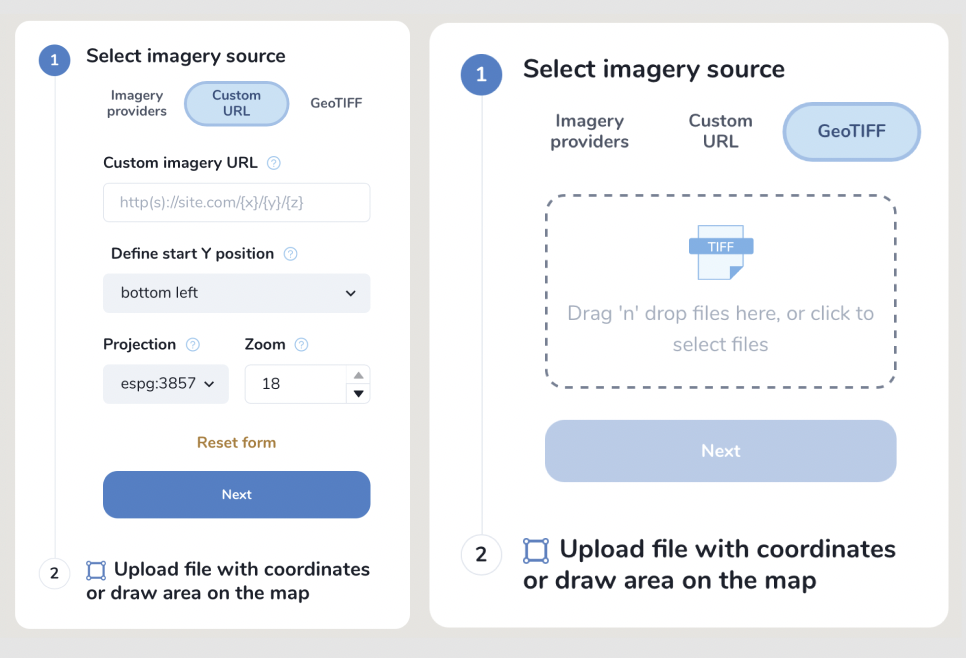
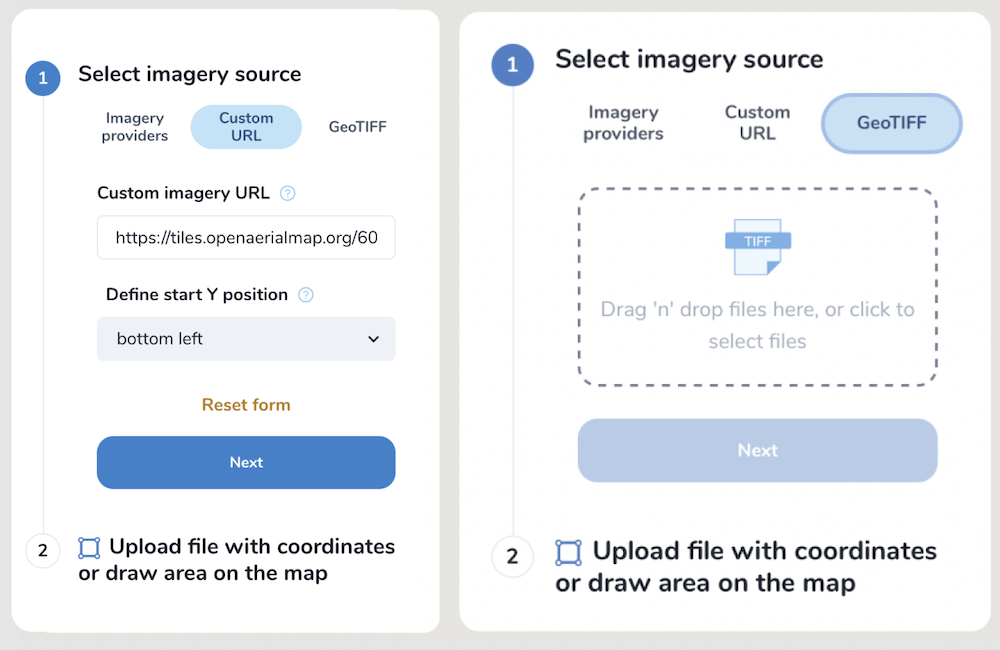
update structure, update UI screen for XYZ layers

diff --git a/source/userguides/howto.rst b/source/userguides/howto.rst
@@ -1,5 +1,50 @@
+.. _howto:
+
+Userguides - How To
+===================
+
+How to change the data type of your image to Uint8 bit in QGIS
+--------------------------------------------------------------
+
+1. Check the data type of your image. 
+Right-click on the imagery layer - i - Information from provider. The Data type must be Byte. Follow the next steps if the Data type is Int16, Float 32 etc.
+
+    
+    .. figure:: _static/information.png
+
+
+  
+
+2. Right click on your image Layer Properties -  Symbology tab, then customize the display of your image. Select desired channels for Band rendering, adjust brightness and contrast. 
+      
+    
+    .. figure:: _static/symbology.png
+
+
+
+3. Right-click on the layer’s name, go to the  Export in the context menu, Save as…
+
+ 
+    .. figure:: _static/export.png
+    
+
+
+4. Check Output mode as Rendered Image
+
+
+    .. figure:: _static/save_raster.png
+    
+
+
+5. Save your image  - navigate to the desired folder, input the file name then click OK
+
+
+
+6. Use the new image layer as Imagery source when using the Mapflow plugin for QGIS
+
+
 How to process your own UAV imagery with Mapflow
-================================================
+------------------------------------------------
 
 Unmanned aerial vehicles – UAVs or, more commonly, drones – have become a deeply integrated part of the geomatic industry over the last ten years. This is owing to their increasing usability, falling hardware costs, and easing government regulations. Yet, as more data is available with UAV surveys, more data need to be processed operatively. 
 To process your UAV data you might be looking for some cloud or desktop software to create a mosaic or orthophoto.  Do you know that you can easily publish your data with Openaerialmap and analyze (say detect and calculate some objects and calculate their areas) with Mapflow QGIS or Mapflow Web? 
@@ -7,7 +52,7 @@ To process your UAV data you might be looking for some cloud or desktop software
 Let’s take the “UAV buildings” :doc:`models_changelog/buildings_aerial_imagery_model` model that extracts the detailed building outlines (the recommended image resolution is 10 cm).
 
 Processing with Mapflow Web
-----------------------------
+~~~~~~~~~~~~~~~~~~~~~~~~~~~~
 
 1. Select raster source – you can either use Custom URL (see below how to publish your image with Openaerialmap and get the TMS link) or upload your image as GeoTIFF.
 
@@ -38,7 +83,7 @@ The processing area (AOI) must be located within the area of the image extent, o
 
 
 Processing with Mapflow – QGIS
-------------------------------
+~~~~~~~~~~~~~~~~~~~~~~~~~~~~~~~
 
 In case you are already used to working with QGIS you need to install the Mapflow plugin. You can upload your own GeoTIFF (up to 2 GB). All raster layers currently loaded in your QGIS (1) are visible in the drop-down list (2) and can be selected for upload. 
 Open files in the Additional options (3) also adds your item to the tree of QGIS layers.
@@ -52,7 +97,7 @@ Open files in the Additional options (3) also adds your item to the tree of QGIS
     Please, consider the requirements specified on the page with Models reference when uploading your own images for AI-mapping processing.
 
 Use Openaerialmap as an imagery publication tool
-------------------------------------------------
+~~~~~~~~~~~~~~~~~~~~~~~~~~~~~~~~~~~~~~~~~~~~~~~~~
 
 `OpenAeriaMap <https://map.openaerialmap.org>`_ is an open collection of UAV imagery data, crowdsourced by users. The project is supported by a consortium of companies developing open source software and services for working with geospatial data.
 As soon as your aerial image published on Openaerialmap it’s displayed on the public map and can be streamed using TMS/WMTS protocols or downloaded as GeoTIFF file. 
@@ -66,7 +111,7 @@ Both ways are OK to work with Mapflow.
 2. Check if you see the image on the map, go through the next steps (AI model, processing params) to and start the processing.
 
 Preparing and optimizing the large size images
-----------------------------------------------
+~~~~~~~~~~~~~~~~~~~~~~~~~~~~~~~~~~~~~~~~~~~~~~~~~~~~~~~~
 
 Here are few tips on how to prepare and optimize your data and reduce the image size to upload it faster and not to exceed the Mapflow upload limit.
 
@@ -89,3 +134,74 @@ The same can be done using QGIS interface:
 Tell us if you have more tips to share with the community or if you have more questions – we are ready to help.
 
 **Run the flow!**
+
+
+How to view results using Kepler.gl
+-----------------------------------
+
+**Kepler.gl** is an open source tool designed for geospatial data analysis. It is a simple yet powerful for displaying and exploring geodatasets.
+
+To view the processing results in the Mapflow, select the required processing and press the button *"Open in kepler.gl"*.
+
+.. note ::
+   You can share your processing view in Kepler by copying the open URL (right click on *"Open in kepler.gl"* --> Copy Link Address)
+
+Using the Kepler you can change the visual properties of data, set filters, and choose a background map.
+
+
+Layers tab
+^^^^^^^^^^
+
+Click on the layer name to bring up the *Layer settings* from the drop-down menu. To hide all data, click on the *eye* icon.
+
+.. figure:: ../kepler/_static/view_layer_settings.png
+    :alt: View layer settings
+    :align: center
+    :width: 15cm
+
+
+These settings allow you to choose a more suitable type of received data:
+
+
+* *Fill color.* You can choose any color from the palette for polygons, and also hide the display of data by changing the position of the slider. You can change the transparency of polygons (property *Opacity*) in the additional settings of this function.
+* *Stroke color.* You can choose any color from the palette for outlining polygons, as well as completely remove the stroke. You can change the transparency of the stroke (property *Opacity*) In the additional settings of this function.
+* *Stroke width.* Controls the thickness of the stroke.
+* *Height.* Allows you to view data with heights in 3D format. Set the desired coefficient and select the attribute of the layer with heights.
+
+.. figure:: ../kepler/_static/3D_buildings.png
+    :alt: 3D buildings
+    :align: center
+    :width: 15cm
+
+
+Filters tab
+^^^^^^^^^^^^
+
+This tab allows you to add a filter of interest by a specific attribute of the layer (as in this case, the filter is set by classes with different typology of buildings).
+
+.. figure:: ../kepler/_static/filter_panel.png
+    :alt: Filter panel
+    :align: center
+    :width: 15cm
+
+
+Interaction tab
+^^^^^^^^^^^^^^^
+
+You can select or remove attributes that will be visible in the menu that appears when you hover over an object. It is also possible to turn on the panel indicating longitude and latitude.
+
+.. figure:: ../kepler/_static/interaction_panel.png
+    :alt: Interaction panel
+    :align: center
+    :width: 15cm
+
+
+Base map tab
+^^^^^^^^^^^^
+
+Here you can choose the styles of the map, as well as choose to display its various layers.
+
+.. figure:: ../kepler/_static/base_map_panel.png
+    :alt: Interaction panel
+    :align: center
+    :width: 5cm

diff --git a/source/index.rst b/source/index.rst
@@ -48,21 +48,7 @@ Use with GIS...
    :maxdepth: 1
 
    api/qgis_mapflow
-   kepler/kepler
    userguides/iterative_mapping
-
-********************
-Reference materials 
-********************
-
-.. toctree::
-   :glob:
-   :maxdepth: 1
-
-   um/classes
-   forest/classes
-   requirements
-   api/error_messages
 
 ********************
 Mapflow models 
@@ -82,8 +68,19 @@ User guides
    :glob:
    :maxdepth: 1
 
-   userguides/howto8bit
-   userguides/howto-image
+   userguides/howto
+
+********************
+Reference materials 
+********************
+
+.. toctree::
+   :glob:
+   :maxdepth: 1
+
+   um/classes
+   forest/classes
+   userguides/requirements
 
 ***************************
 Frequently asked questions
@@ -94,6 +91,7 @@ Frequently asked questions
    :maxdepth: 1
    
    faq.rst
+   
    
 ******************
 PDFs

diff --git a/source/userguides/requirements.rst b/source/userguides/requirements.rst
@@ -1,7 +1,7 @@
 Requirements for using the platform
 ====================================
 
-Follow the requirements listed on the page with :doc:`Models reference <userguides/pipelines>` to process images with the Mapflow platform.
+Follow the requirements listed on the page with :doc:`Models reference <pipelines>` to process images with the Mapflow platform.
 
 .. note::
     Please pay attention to the following:

diff --git a/source/api/processing_api.rst b/source/api/processing_api.rst
@@ -666,3 +666,6 @@ Response example:
 ``maxResolution`` - optional, defines the maximum allowed resolution in m / pixel
 
 ``minResolution`` - optional, defines the minimum allowed resolution in m / pixel
+
+
+.. include:: error_messages.rst

diff --git a/source/api/qgis_mapflow.rst b/source/api/qgis_mapflow.rst
@@ -390,5 +390,3 @@ If you behind a firewall, go to *QGIS* -> *Preferences* -> *Network* and will pl
          :width: 15cm
 
 |
-
-.. include:: howto8bit.rst
